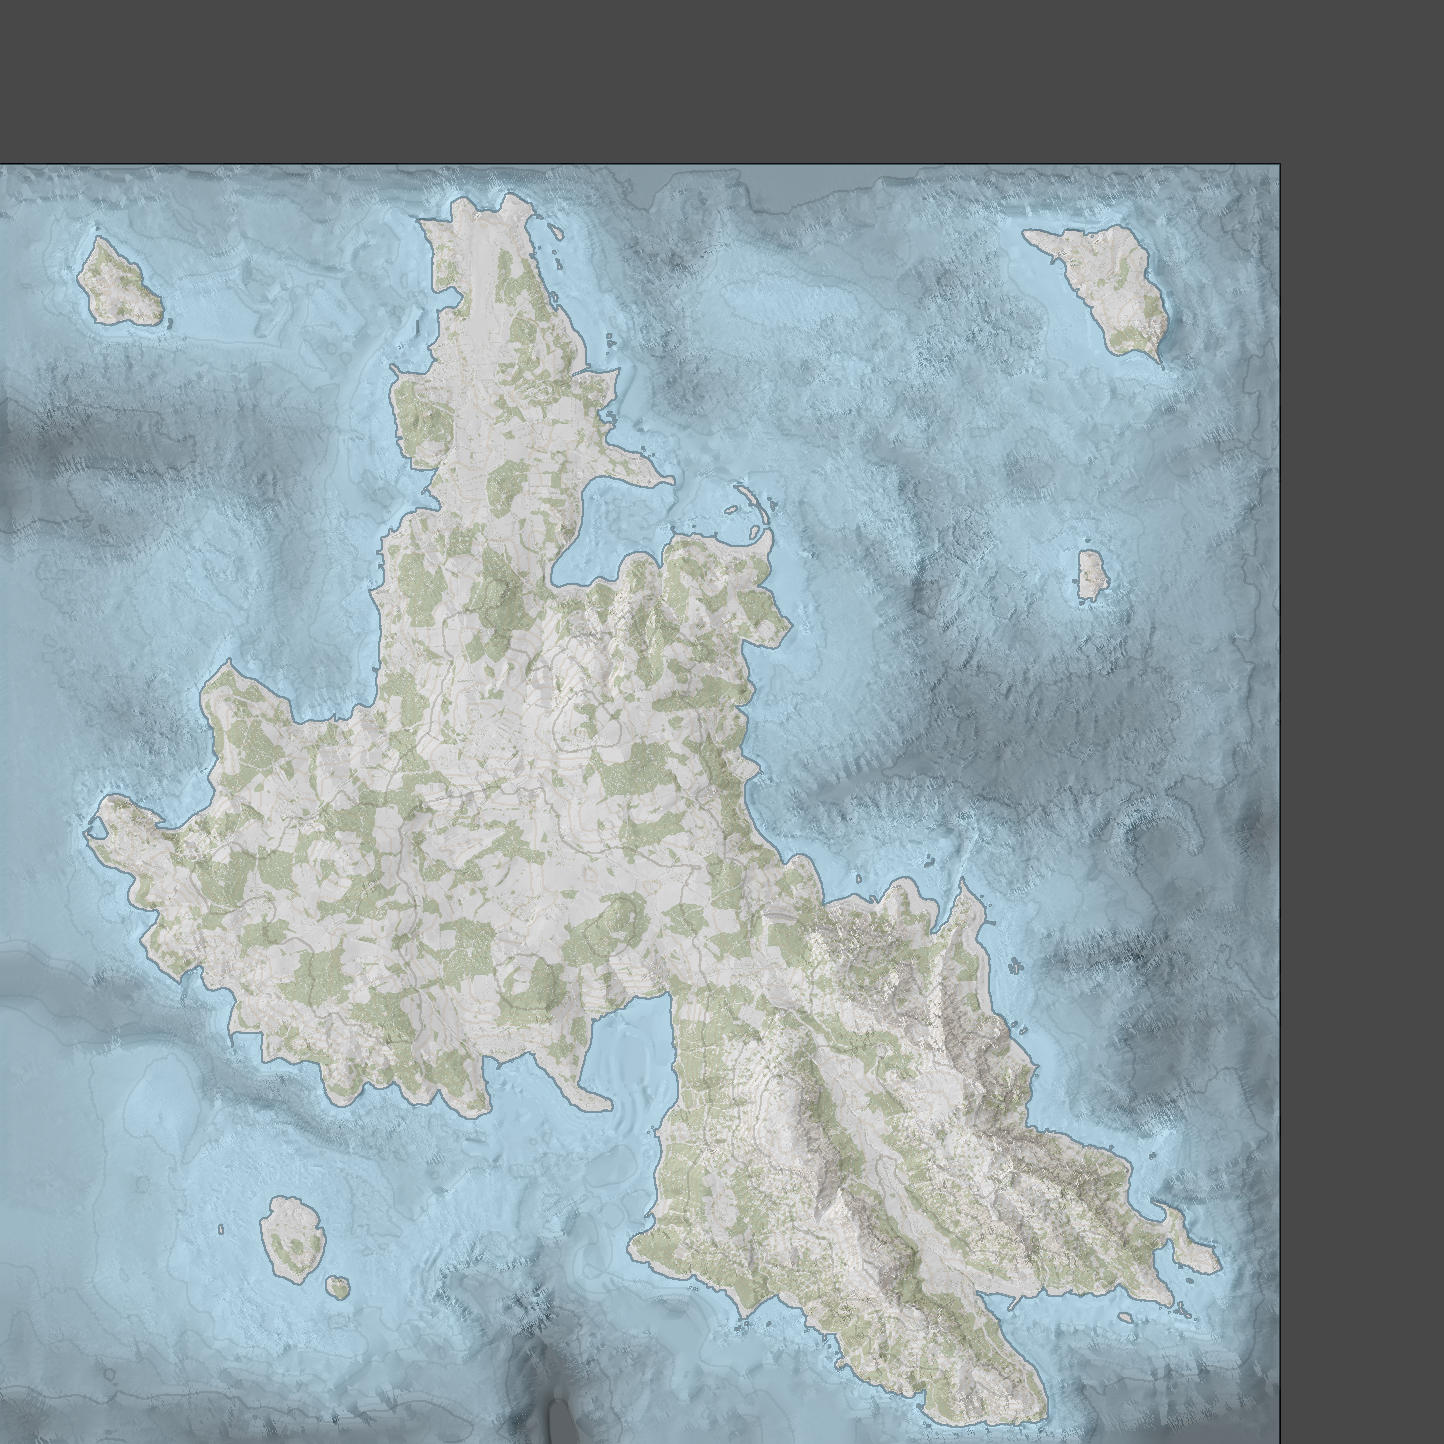
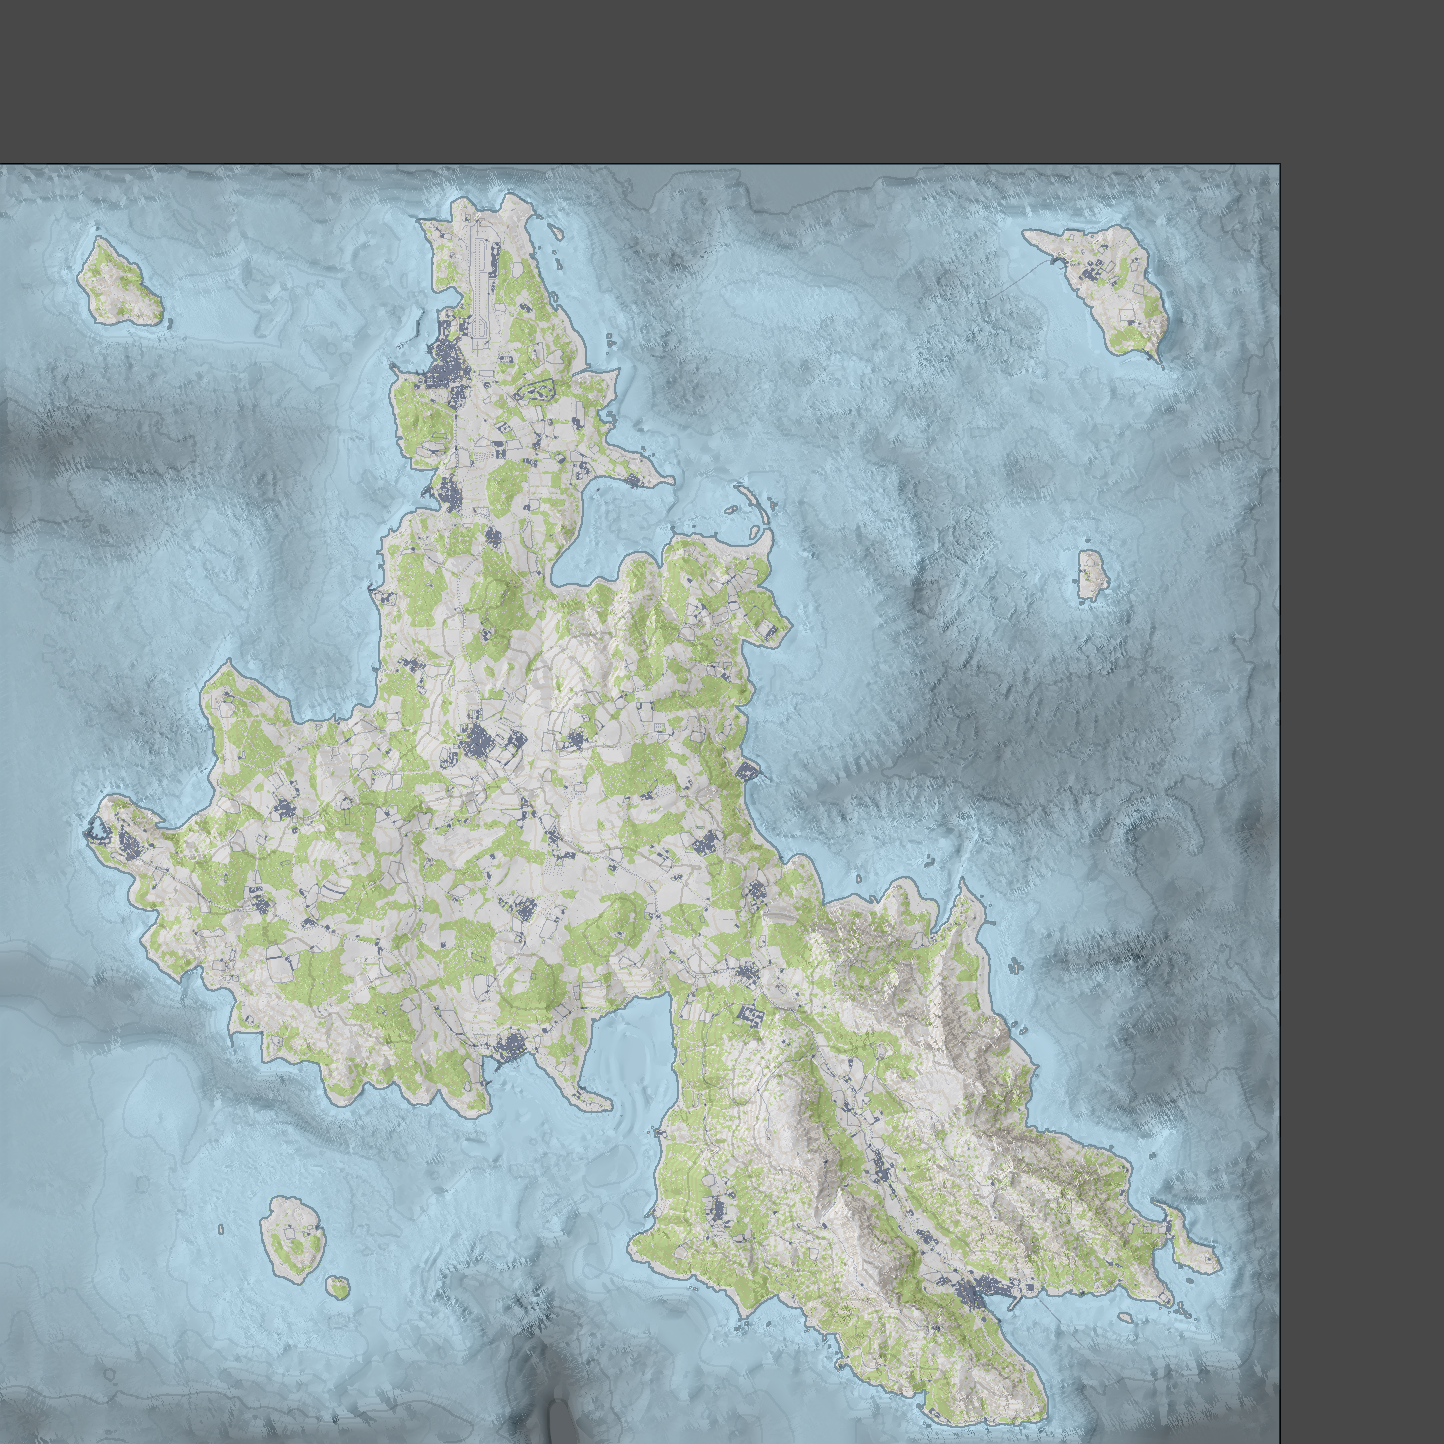
update doc; integrate configurable colors for forest,village

diff --git a/libs/commons/src/main/java/com/recom/commons/calculator/d8algorithm/D8AlgorithmForForestMap.java b/libs/commons/src/main/java/com/recom/commons/calculator/d8algorithm/D8AlgorithmForForestMap.java
@@ -4,8 +4,8 @@ package com.recom.commons.calculator.d8algorithm;
 import com.recom.commons.calculator.ARGBCalculator;
 import com.recom.commons.map.rasterizer.mapdesignscheme.MapDesignScheme;
 import com.recom.commons.model.DEMDescriptor;
-import com.recom.commons.model.maprendererpipeline.dataprovider.forest.ForestItem;
 import com.recom.commons.model.maprendererpipeline.dataprovider.SpacialIndex;
+import com.recom.commons.model.maprendererpipeline.dataprovider.forest.ForestItem;
 import lombok.NonNull;
 import lombok.RequiredArgsConstructor;
 
@@ -46,7 +46,6 @@ public class D8AlgorithmForForestMap {
             final int demX,
             final int demY
     ) {
-        // 10 Trees per 100m²= // @TODO extract to conf
         final int forestCellSizeSquared = forestCellSizeInMeter * forestCellSizeInMeter;
         double forestDensityThreshold = 1F / 100; // @TODO extract to conf
 
@@ -79,14 +78,12 @@ public class D8AlgorithmForForestMap {
             }
         }
 
-        final int baseColorForest = mapScheme.getBaseColorForest();
-
         if (treeDensity < forestDensityThreshold) {
-            return mapScheme.getBaseColorContourBackground(); // @TODO extract to new variable baseColorOfForestBackground!!!
+            return mapScheme.getBaseColorForestBackground();
         } else if (treeDensity >= forestDensityThreshold && surroundingForestNeighbourSpaces >= 5) {
-            return baseColorForest;
+            return mapScheme.getBaseColorForest();
         } else {
-            return colorCalculator.modifyTransparency(baseColorForest, 0.5);
+            return colorCalculator.modifyTransparency(mapScheme.getBaseColorForest(), 0.5);
         }
     }
 

diff --git a/libs/commons/src/main/java/com/recom/commons/calculator/d8algorithm/D8AlgorithmForVillageMap.java b/libs/commons/src/main/java/com/recom/commons/calculator/d8algorithm/D8AlgorithmForVillageMap.java
@@ -46,7 +46,6 @@ public class D8AlgorithmForVillageMap {
             final int demX,
             final int demY
     ) {
-        // 10 Trees per 100m²= // @TODO extract to conf
         final int forestCellSizeSquared = villageCellSizeInMeter * villageCellSizeInMeter;
         double villageDensityThreshold = 1F / 100; // @TODO extract to conf
 
@@ -79,14 +78,12 @@ public class D8AlgorithmForVillageMap {
             }
         }
 
-        final int baseColorVillage = mapScheme.getBaseColorVillage();
-
         if (villageDensity < villageDensityThreshold) {
-            return mapScheme.getBaseColorContourBackground(); // @TODO extract to new variable baseColorOfForestBackground!!!
+            return mapScheme.getBaseColorVillageBackground();
         } else if (villageDensity >= villageDensityThreshold && surroundingForestNeighbourSpaces >= 5) {
-            return baseColorVillage;
+            return mapScheme.getBaseColorVillage();
         } else {
-            return colorCalculator.modifyTransparency(baseColorVillage, 0.5);
+            return colorCalculator.modifyTransparency(mapScheme.getBaseColorVillage(), 0.5);
         }
     }
 

diff --git a/services/recom-backend/src/main/java/com/recom/mapper/mapcomposer/MapDesignSchemeMapper.java b/services/recom-backend/src/main/java/com/recom/mapper/mapcomposer/MapDesignSchemeMapper.java
@@ -17,7 +17,9 @@ public interface MapDesignSchemeMapper {
     @NonNull
     @Mapping(source = "baseColorTerrain", target = "baseColorTerrain", qualifiedByName = "hexStringToInteger")
     @Mapping(source = "baseColorWater", target = "baseColorWater", qualifiedByName = "hexStringToInteger")
+    @Mapping(source = "baseColorForestBackground", target = "baseColorForestBackground", qualifiedByName = "hexStringToInteger")
     @Mapping(source = "baseColorForest", target = "baseColorForest", qualifiedByName = "hexStringToInteger")
+    @Mapping(source = "baseColorVillageBackground", target = "baseColorVillageBackground", qualifiedByName = "hexStringToInteger")
     @Mapping(source = "baseColorVillage", target = "baseColorVillage", qualifiedByName = "hexStringToInteger")
     @Mapping(source = "baseColorContourBackground", target = "baseColorContourBackground", qualifiedByName = "hexStringToInteger")
     @Mapping(source = "baseColorContourLineTerrain", target = "baseColorContourLineTerrain", qualifiedByName = "hexStringToInteger")

diff --git a/libs/sharedmodels/src/main/java/com/recom/dto/map/mapcomposer/MapDesignSchemeDto.java b/libs/sharedmodels/src/main/java/com/recom/dto/map/mapcomposer/MapDesignSchemeDto.java
@@ -29,7 +29,16 @@ public class MapDesignSchemeDto {
     @Nullable
     @Schema
     @JsonProperty()
+    public String baseColorForestBackground;
+    @Nullable
+    @Schema
+    @JsonProperty()
     public String baseColorForest;
+
+    @Nullable
+    @Schema
+    @JsonProperty()
+    public String baseColorVillageBackground;
     @Nullable
     @Schema
     @JsonProperty()

diff --git a/README.md b/README.md
@@ -27,6 +27,8 @@ To create more intelligence from gameMap data the following features are planned
   * ![mergedmap2-preview.png](docs%2Fmd-media%2Fmergedmap2-preview.png) 
 * Forest detection / forest heatmap
   * ![forestmap-preview.png](docs%2Fmd-media%2Fforestmap-preview.png) 
+* Structure detection
+  * ![structuremap-preview.png](docs%2Fmd-media%2Fstructuremap-preview.png)
 * Terrain heightmap
   * ![topographic-scanner-example.png](docs%2Fmd-media%2Ftopographic-scanner-example.png)
 * Map shading / lightmap
